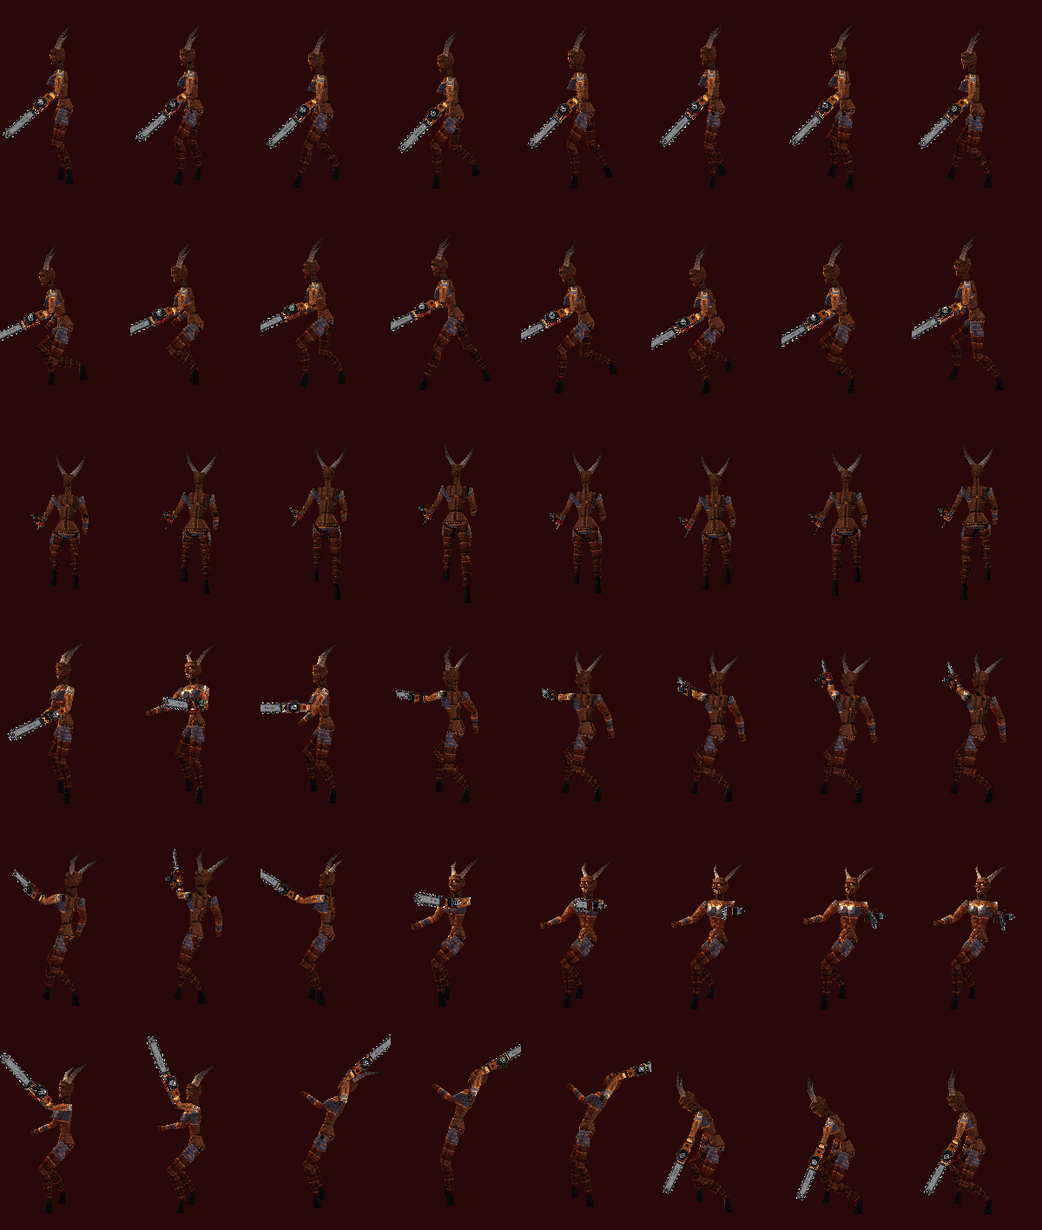
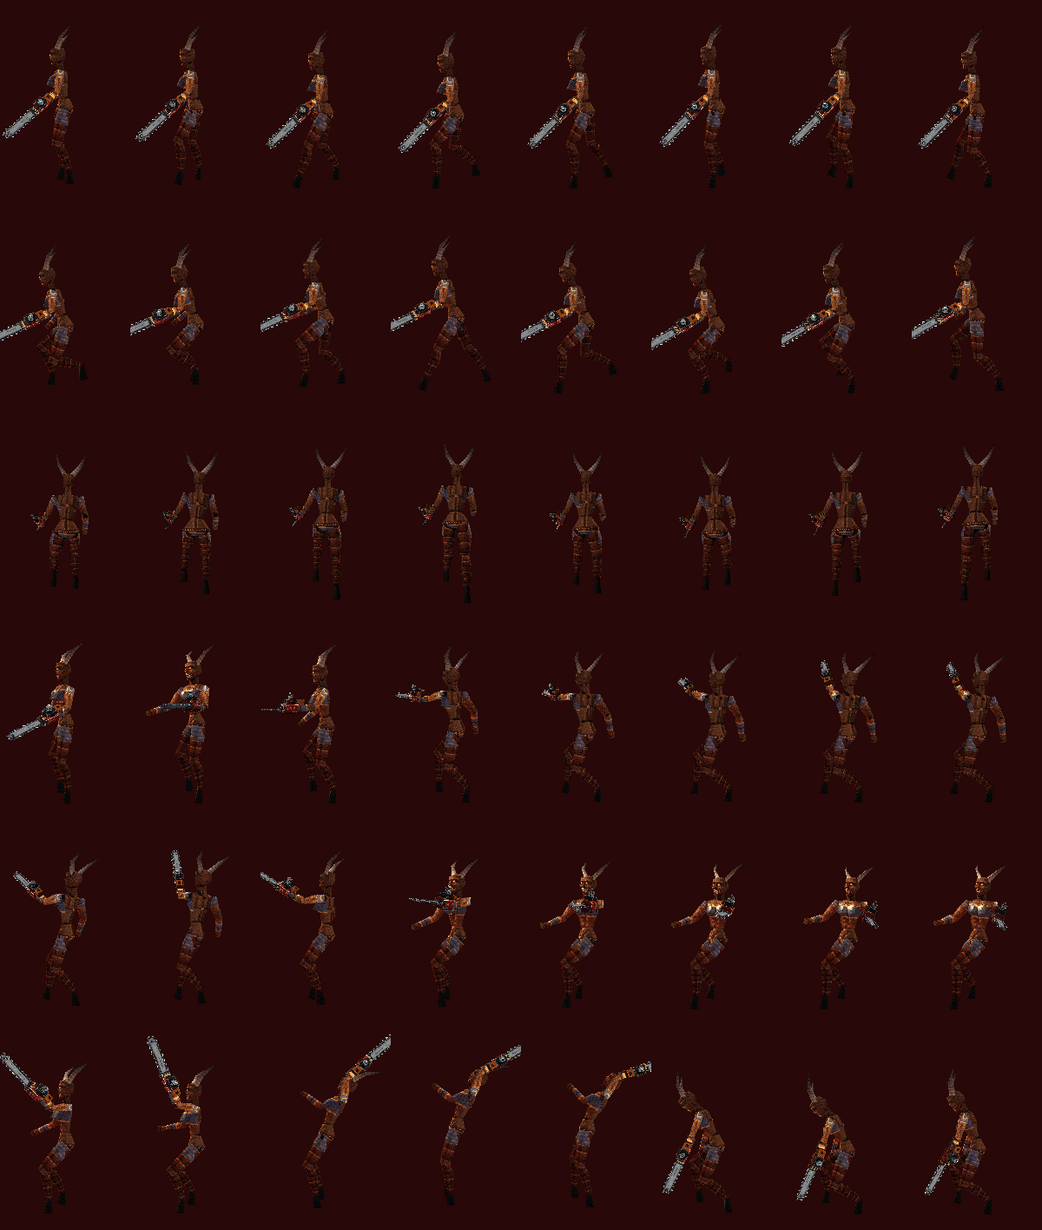
Chainsaw blade turns edge-first into every swing (forearm roll)
- new FK channel RFR: the right forearm rolls about its own axis (before the elbow bend), turning
  the fist and the strapped-on saw
- combo clips carry roll keys solved by platform/headless/rolltest.c so the bar's plane follows
  each swing path: edge leads ~0.84-0.97 of the motion (slash and backhand flat, slam edge-down)

Claude-Session: https://claude.ai/code/session_012tW2o1Tr2YJ8pCwfx14vK1

diff --git a/game/fkclips.c b/game/fkclips.c
@@ -3,92 +3,92 @@
 #include "fkclips.h"
 
 static const FKKey k_walk[] = {
-    { 0, { 0, -3, -5, 0, -6, 5, 4, 2, 0, 76, -8, 18, 72, 18, 36, 25, 3, -10, 4, -7, 14, 6, 4 } },
-    { 4, { 0, -3, -4, 2, -7, 4, 3, 0, 0, 76, -5, 19, 72, 19, 38, 23, 9, -3, 4, -11, 24, 13, 4 } },
-    { 8, { 0, -3, -2, 5, -8, 2, 2, 0, 0, 76, -2, 20, 73, 20, 40, 21, 15, -1, 4, -10, 38, 20, 4 } },
-    { 12, { 0, -3, -1, 4, -7, 1, 2, 1, 0, 76, 0, 20, 72, 20, 39, 18, 11, -2, 4, -5, 52, 11, 4 } },
-    { 16, { 0, -3, 0, 3, -6, 0, 3, 2, 0, 76, 3, 21, 72, 21, 38, 13, 8, -3, 4, 3, 45, 2, 4 } },
-    { 20, { 0, -3, 1, 2, -5, -1, 4, 3, 0, 76, 5, 22, 72, 20, 36, 8, 6, -4, 4, 14, 38, -2, 4 } },
-    { 24, { 0, -3, 2, 1, -6, -2, 4, 2, 0, 76, 6, 22, 71, 20, 35, 3, 5, -1, 4, 21, 19, -6, 4 } },
-    { 28, { 0, -3, 4, 0, -6, -4, 4, 1, 0, 76, 8, 23, 72, 19, 36, -2, 4, 3, 4, 24, 8, -8, 4 } },
-    { 32, { 0, -3, 5, -2, -7, -5, 5, 0, 0, 76, 10, 24, 72, 18, 38, -7, 14, 6, 4, 25, 3, -10, 4 } },
-    { 36, { 0, -3, 4, -4, -8, -4, 6, -1, 0, 76, 8, 23, 72, 17, 39, -11, 24, 13, 4, 23, 9, -3, 4 } },
-    { 40, { 0, -3, 2, -5, -8, -2, 6, 0, 0, 76, 6, 22, 73, 16, 40, -10, 38, 20, 4, 21, 15, -1, 4 } },
-    { 44, { 0, -3, 1, -4, -7, -1, 6, 1, 0, 76, 5, 22, 72, 16, 39, -5, 52, 11, 4, 18, 11, -2, 4 } },
-    { 48, { 0, -3, 0, -3, -6, 0, 5, 2, 0, 76, 3, 21, 72, 15, 38, 3, 45, 2, 4, 13, 8, -3, 4 } },
-    { 52, { 0, -3, -1, -2, -5, 1, 4, 3, 0, 76, 0, 20, 72, 16, 36, 14, 38, -2, 4, 8, 6, -4, 4 } },
-    { 56, { 0, -3, -2, -1, -5, 2, 4, 3, 0, 76, -2, 20, 71, 16, 35, 21, 19, -6, 4, 3, 5, -1, 4 } },
-    { 60, { 0, -3, -4, 0, -6, 4, 4, 2, 0, 76, -5, 19, 72, 17, 36, 24, 8, -8, 4, -2, 4, 3, 4 } },
-    { 64, { 0, -3, -5, 0, -6, 5, 4, 2, 0, 76, -8, 18, 72, 18, 36, 25, 3, -10, 4, -7, 14, 6, 4 } },
+    { 0, { 0, -3, -5, 0, -6, 5, 4, 2, 0, 76, -8, 18, 72, 18, 36, 25, 3, -10, 4, -7, 14, 6, 4, 0 } },
+    { 4, { 0, -3, -4, 2, -7, 4, 3, 0, 0, 76, -5, 19, 72, 19, 38, 23, 9, -3, 4, -11, 24, 13, 4, 0 } },
+    { 8, { 0, -3, -2, 5, -8, 2, 2, 0, 0, 76, -2, 20, 73, 20, 40, 21, 15, -1, 4, -10, 38, 20, 4, 0 } },
+    { 12, { 0, -3, -1, 4, -7, 1, 2, 1, 0, 76, 0, 20, 72, 20, 39, 18, 11, -2, 4, -5, 52, 11, 4, 0 } },
+    { 16, { 0, -3, 0, 3, -6, 0, 3, 2, 0, 76, 3, 21, 72, 21, 38, 13, 8, -3, 4, 3, 45, 2, 4, 0 } },
+    { 20, { 0, -3, 1, 2, -5, -1, 4, 3, 0, 76, 5, 22, 72, 20, 36, 8, 6, -4, 4, 14, 38, -2, 4, 0 } },
+    { 24, { 0, -3, 2, 1, -6, -2, 4, 2, 0, 76, 6, 22, 71, 20, 35, 3, 5, -1, 4, 21, 19, -6, 4, 0 } },
+    { 28, { 0, -3, 4, 0, -6, -4, 4, 1, 0, 76, 8, 23, 72, 19, 36, -2, 4, 3, 4, 24, 8, -8, 4, 0 } },
+    { 32, { 0, -3, 5, -2, -7, -5, 5, 0, 0, 76, 10, 24, 72, 18, 38, -7, 14, 6, 4, 25, 3, -10, 4, 0 } },
+    { 36, { 0, -3, 4, -4, -8, -4, 6, -1, 0, 76, 8, 23, 72, 17, 39, -11, 24, 13, 4, 23, 9, -3, 4, 0 } },
+    { 40, { 0, -3, 2, -5, -8, -2, 6, 0, 0, 76, 6, 22, 73, 16, 40, -10, 38, 20, 4, 21, 15, -1, 4, 0 } },
+    { 44, { 0, -3, 1, -4, -7, -1, 6, 1, 0, 76, 5, 22, 72, 16, 39, -5, 52, 11, 4, 18, 11, -2, 4, 0 } },
+    { 48, { 0, -3, 0, -3, -6, 0, 5, 2, 0, 76, 3, 21, 72, 15, 38, 3, 45, 2, 4, 13, 8, -3, 4, 0 } },
+    { 52, { 0, -3, -1, -2, -5, 1, 4, 3, 0, 76, 0, 20, 72, 16, 36, 14, 38, -2, 4, 8, 6, -4, 4, 0 } },
+    { 56, { 0, -3, -2, -1, -5, 2, 4, 3, 0, 76, -2, 20, 71, 16, 35, 21, 19, -6, 4, 3, 5, -1, 4, 0 } },
+    { 60, { 0, -3, -4, 0, -6, 4, 4, 2, 0, 76, -5, 19, 72, 17, 36, 24, 8, -8, 4, -2, 4, 3, 4, 0 } },
+    { 64, { 0, -3, -5, 0, -6, 5, 4, 2, 0, 76, -8, 18, 72, 18, 36, 25, 3, -10, 4, -7, 14, 6, 4, 0 } },
 };
 const FKClip clip_walk = { "walk", k_walk, 17, 64, 1, { 0, 32 }, { 40, 8 } };
 
 static const FKKey k_run[] = {
-    { 0, { 30, -9, -7, 0, -10, 7, 4, 10, 0, 74, -14, 66, 66, 30, 52, 30, 20, 0, 3, 5, 82, 26, 3 } },
-    { 4, { 41, -9, -5, 3, -13, 5, 2, 7, 0, 74, -10, 68, 68, 31, 56, 22, 31, -2, 3, 20, 102, 18, 3 } },
-    { 8, { 40, -9, -4, 6, -13, 4, 1, 7, 0, 74, -5, 70, 68, 32, 57, 15, 33, -4, 3, 34, 108, 10, 3 } },
-    { 12, { 26, -9, -2, 5, -12, 2, 2, 8, 0, 74, 0, 71, 67, 33, 55, 5, 27, 2, 3, 48, 100, 5, 3 } },
-    { 16, { 8, -9, 0, 4, -10, 0, 2, 10, 0, 74, 4, 73, 66, 34, 53, -5, 24, 7, 3, 50, 84, 1, 3 } },
-    { 20, { -18, -9, 2, 2, -9, -2, 3, 11, 0, 74, 8, 75, 65, 33, 51, -15, 22, 19, 3, 52, 62, -4, 3 } },
-    { 24, { -33, -9, 4, 1, -10, -4, 4, 10, 0, 74, 13, 76, 65, 32, 51, -17, 34, 28, 3, 45, 42, -3, 3 } },
-    { 28, { -40, -9, 5, -1, -11, -5, 5, 9, 0, 74, 18, 78, 66, 31, 53, -10, 60, 30, 3, 38, 26, -1, 3 } },
-    { 32, { 30, -9, 7, -2, -12, -7, 6, 8, 0, 74, 22, 80, 67, 30, 55, 5, 82, 26, 3, 30, 20, 0, 3 } },
-    { 36, { 41, -9, 5, -4, -13, -5, 6, 7, 0, 74, 18, 78, 68, 29, 57, 20, 102, 18, 3, 22, 31, -2, 3 } },
-    { 40, { 40, -9, 4, -6, -13, -4, 7, 7, 0, 74, 13, 76, 68, 28, 57, 34, 108, 10, 3, 15, 33, -4, 3 } },
-    { 44, { 26, -9, 2, -5, -12, -2, 6, 8, 0, 74, 8, 75, 67, 27, 55, 48, 100, 5, 3, 5, 27, 2, 3 } },
-    { 48, { 8, -9, 0, -4, -10, 0, 6, 10, 0, 74, 4, 73, 66, 26, 53, 50, 84, 1, 3, -5, 24, 7, 3 } },
-    { 52, { -18, -9, -2, -2, -9, 2, 5, 11, 0, 74, 0, 71, 65, 27, 51, 52, 62, -4, 3, -15, 22, 19, 3 } },
-    { 56, { -33, -9, -4, -1, -9, 4, 4, 11, 0, 74, -5, 70, 64, 28, 50, 45, 42, -3, 3, -17, 34, 28, 3 } },
-    { 60, { -40, -9, -5, 0, -10, 5, 4, 10, 0, 74, -10, 68, 65, 29, 51, 38, 26, -1, 3, -10, 60, 30, 3 } },
-    { 64, { 30, -9, -7, 0, -10, 7, 4, 10, 0, 74, -14, 66, 66, 30, 52, 30, 20, 0, 3, 5, 82, 26, 3 } },
+    { 0, { 30, -9, -7, 0, -10, 7, 4, 10, 0, 74, -14, 66, 66, 30, 52, 30, 20, 0, 3, 5, 82, 26, 3, 0 } },
+    { 4, { 41, -9, -5, 3, -13, 5, 2, 7, 0, 74, -10, 68, 68, 31, 56, 22, 31, -2, 3, 20, 102, 18, 3, 0 } },
+    { 8, { 40, -9, -4, 6, -13, 4, 1, 7, 0, 74, -5, 70, 68, 32, 57, 15, 33, -4, 3, 34, 108, 10, 3, 0 } },
+    { 12, { 26, -9, -2, 5, -12, 2, 2, 8, 0, 74, 0, 71, 67, 33, 55, 5, 27, 2, 3, 48, 100, 5, 3, 0 } },
+    { 16, { 8, -9, 0, 4, -10, 0, 2, 10, 0, 74, 4, 73, 66, 34, 53, -5, 24, 7, 3, 50, 84, 1, 3, 0 } },
+    { 20, { -18, -9, 2, 2, -9, -2, 3, 11, 0, 74, 8, 75, 65, 33, 51, -15, 22, 19, 3, 52, 62, -4, 3, 0 } },
+    { 24, { -33, -9, 4, 1, -10, -4, 4, 10, 0, 74, 13, 76, 65, 32, 51, -17, 34, 28, 3, 45, 42, -3, 3, 0 } },
+    { 28, { -40, -9, 5, -1, -11, -5, 5, 9, 0, 74, 18, 78, 66, 31, 53, -10, 60, 30, 3, 38, 26, -1, 3, 0 } },
+    { 32, { 30, -9, 7, -2, -12, -7, 6, 8, 0, 74, 22, 80, 67, 30, 55, 5, 82, 26, 3, 30, 20, 0, 3, 0 } },
+    { 36, { 41, -9, 5, -4, -13, -5, 6, 7, 0, 74, 18, 78, 68, 29, 57, 20, 102, 18, 3, 22, 31, -2, 3, 0 } },
+    { 40, { 40, -9, 4, -6, -13, -4, 7, 7, 0, 74, 13, 76, 68, 28, 57, 34, 108, 10, 3, 15, 33, -4, 3, 0 } },
+    { 44, { 26, -9, 2, -5, -12, -2, 6, 8, 0, 74, 8, 75, 67, 27, 55, 48, 100, 5, 3, 5, 27, 2, 3, 0 } },
+    { 48, { 8, -9, 0, -4, -10, 0, 6, 10, 0, 74, 4, 73, 66, 26, 53, 50, 84, 1, 3, -5, 24, 7, 3, 0 } },
+    { 52, { -18, -9, -2, -2, -9, 2, 5, 11, 0, 74, 0, 71, 65, 27, 51, 52, 62, -4, 3, -15, 22, 19, 3, 0 } },
+    { 56, { -33, -9, -4, -1, -9, 4, 4, 11, 0, 74, -5, 70, 64, 28, 50, 45, 42, -3, 3, -17, 34, 28, 3, 0 } },
+    { 60, { -40, -9, -5, 0, -10, 5, 4, 10, 0, 74, -10, 68, 65, 29, 51, 38, 26, -1, 3, -10, 60, 30, 3, 0 } },
+    { 64, { 30, -9, -7, 0, -10, 7, 4, 10, 0, 74, -14, 66, 66, 30, 52, 30, 20, 0, 3, 5, 82, 26, 3, 0 } },
 };
 const FKClip clip_run = { "run", k_run, 17, 64, 1, { 0, 32 }, { 22, 54 } };
 
 static const FKKey k_idle[] = {
-    { 0, { 0, 0, 0, -3, -4, 0, 5, -3, 0, 72, 4, 22, 78, 8, 14, 6, 14, 0, 8, 2, 4, 0, 4 } },
-    { 48, { 0, 0, 0, -4, -1, 0, 6, 0, -6, 70, 8, 26, 77, 9, 16, 6, 16, 0, 8, 2, 5, 0, 4 } },
-    { 96, { 0, 0, 0, -3, -4, 0, 5, -3, 0, 72, 4, 22, 78, 8, 14, 6, 14, 0, 8, 2, 4, 0, 4 } },
+    { 0, { 0, 0, 0, -3, -4, 0, 5, -3, 0, 72, 4, 22, 78, 8, 14, 6, 14, 0, 8, 2, 4, 0, 4, 0 } },
+    { 48, { 0, 0, 0, -4, -1, 0, 6, 0, -6, 70, 8, 26, 77, 9, 16, 6, 16, 0, 8, 2, 5, 0, 4, 0 } },
+    { 96, { 0, 0, 0, -3, -4, 0, 5, -3, 0, 72, 4, 22, 78, 8, 14, 6, 14, 0, 8, 2, 4, 0, 4, 0 } },
 };
 const FKClip clip_idle = { "idle", k_idle, 3, 96, 1, { 0, 0 }, { 0, 0 } };
 
 static const FKKey k_air[] = {
-    { 0, { 0, -6, 0, 0, -10, 0, 0, 10, 0, 62, 24, 60, 66, 16, 44, 58, 96, 20, 5, -14, 50, 30, 5 } },
-    { 16, { 0, -4, 0, 0, -6, 0, 0, 6, 0, 56, 18, 52, 62, 20, 44, 50, 80, 14, 5, 10, 60, 20, 5 } },
-    { 32, { 0, 2, 0, 0, -2, 0, 0, -6, 0, 50, 16, 34, 58, 24, 40, 30, 34, -4, 10, 14, 24, -4, 10 } },
+    { 0, { 0, -6, 0, 0, -10, 0, 0, 10, 0, 62, 24, 60, 66, 16, 44, 58, 96, 20, 5, -14, 50, 30, 5, 0 } },
+    { 16, { 0, -4, 0, 0, -6, 0, 0, 6, 0, 56, 18, 52, 62, 20, 44, 50, 80, 14, 5, 10, 60, 20, 5, 0 } },
+    { 32, { 0, 2, 0, 0, -2, 0, 0, -6, 0, 50, 16, 34, 58, 24, 40, 30, 34, -4, 10, 14, 24, -4, 10, 0 } },
 };
 const FKClip clip_air = { "air", k_air, 3, 32, 0, { 0, 0 }, { 0, 0 } };
 
 static const FKKey k_land[] = {
-    { 0, { 0, -14, 0, 0, -18, 0, 5, 18, 0, 56, 24, 46, 62, 32, 44, 56, 96, -14, 10, 50, 92, -14, 10 } },
-    { 1, { 0, -14, 0, 0, -18, 0, 5, 18, 0, 56, 24, 46, 62, 32, 44, 56, 96, -14, 10, 50, 92, -14, 10 } },
+    { 0, { 0, -14, 0, 0, -18, 0, 5, 18, 0, 56, 24, 46, 62, 32, 44, 56, 96, -14, 10, 50, 92, -14, 10, 0 } },
+    { 1, { 0, -14, 0, 0, -18, 0, 5, 18, 0, 56, 24, 46, 62, 32, 44, 56, 96, -14, 10, 50, 92, -14, 10, 0 } },
 };
 const FKClip clip_land = { "land", k_land, 2, 1, 0, { 0, 0 }, { 0, 0 } };
 
 static const FKKey k_atk1[] = {
-    { 0, { 0, 0, 0, 0, 0, 0, 0, 0, 0, 74, 4, 16, 72, 18, 36, 3, 6, 0, 5, 3, 6, 0, 5 } },
-    { 4, { 0, 0, -22, 4, -2, -34, 0, 0, 10, 60, 30, 40, 80, 25, 70, 3, 6, 0, 5, 3, 6, 0, 5 } },
-    { 9, { 0, 0, 28, -5, -14, 36, 0, 0, -10, 70, -20, 30, 88, 95, 8, 3, 6, 0, 5, 3, 6, 0, 5 } },
-    { 14, { 0, 0, 30, -5, -12, 42, 0, 0, -12, 70, -24, 30, 92, 110, 15, 3, 6, 0, 5, 3, 6, 0, 5 } },
-    { 26, { 0, 0, 8, 0, -8, 20, 0, 0, 0, 70, 0, 24, 80, 60, 30, 3, 6, 0, 5, 3, 6, 0, 5 } },
+    { 0, { 0, 0, 0, 0, 0, 0, 0, 0, 0, 74, 4, 16, 72, 18, 36, 3, 6, 0, 5, 3, 6, 0, 5, 0 } },
+    { 4, { 0, 0, -22, 4, -2, -34, 0, 0, 10, 60, 30, 40, 80, 25, 70, 3, 6, 0, 5, 3, 6, 0, 5, -100 } },
+    { 9, { 0, 0, 28, -5, -14, 36, 0, 0, -10, 70, -20, 30, 88, 95, 8, 3, 6, 0, 5, 3, 6, 0, 5, -58 } },
+    { 14, { 0, 0, 30, -5, -12, 42, 0, 0, -12, 70, -24, 30, 92, 110, 15, 3, 6, 0, 5, 3, 6, 0, 5, -56 } },
+    { 26, { 0, 0, 8, 0, -8, 20, 0, 0, 0, 70, 0, 24, 80, 60, 30, 3, 6, 0, 5, 3, 6, 0, 5, -56 } },
 };
 const FKClip clip_atk1 = { "atk1", k_atk1, 5, 26, 0, { 0, 0 }, { 0, 0 } };
 
 static const FKKey k_atk2[] = {
-    { 0, { 0, 0, 8, 0, -8, 20, 0, 0, 0, 70, 4, 24, 80, 60, 30, 3, 6, 0, 5, 3, 6, 0, 5 } },
-    { 4, { 0, 0, 24, -4, -6, 42, 0, 0, -10, 64, -10, 34, 92, 84, 55, 3, 6, 0, 5, 3, 6, 0, 5 } },
-    { 9, { 0, 0, -28, 5, -14, -38, 0, 0, 12, 62, 30, 40, 82, 86, 5, 3, 6, 0, 5, 3, 6, 0, 5 } },
-    { 14, { 0, 0, -30, 5, -12, -46, 0, 0, 14, 62, 34, 40, 72, 70, 10, 3, 6, 0, 5, 3, 6, 0, 5 } },
-    { 26, { 0, 0, -8, 0, -8, -20, 0, 0, 0, 70, 10, 24, 70, 60, 30, 3, 6, 0, 5, 3, 6, 0, 5 } },
+    { 0, { 0, 0, 8, 0, -8, 20, 0, 0, 0, 70, 4, 24, 80, 60, 30, 3, 6, 0, 5, 3, 6, 0, 5, -34 } },
+    { 4, { 0, 0, 24, -4, -6, 42, 0, 0, -10, 64, -10, 34, 92, 84, 55, 3, 6, 0, 5, 3, 6, 0, 5, -64 } },
+    { 9, { 0, 0, -28, 5, -14, -38, 0, 0, 12, 62, 30, 40, 82, 86, 5, 3, 6, 0, 5, 3, 6, 0, 5, -78 } },
+    { 14, { 0, 0, -30, 5, -12, -46, 0, 0, 14, 62, 34, 40, 72, 70, 10, 3, 6, 0, 5, 3, 6, 0, 5, -60 } },
+    { 26, { 0, 0, -8, 0, -8, -20, 0, 0, 0, 70, 10, 24, 70, 60, 30, 3, 6, 0, 5, 3, 6, 0, 5, -76 } },
 };
 const FKClip clip_atk2 = { "atk2", k_atk2, 5, 26, 0, { 0, 0 }, { 0, 0 } };
 
 static const FKKey k_atk3[] = {
-    { 0, { 0, 0, -8, 0, -8, -20, 0, 0, 0, 70, 4, 24, 70, 60, 30, 3, 6, 0, 5, 3, 6, 0, 5 } },
-    { 5, { 0, -8, 0, 0, -12, -14, 0, 6, 0, 60, 30, 50, 80, 110, 50, 3, 6, 0, 5, 3, 6, 0, 5 } },
-    { 9, { 0, 6, 0, 0, 12, -10, 0, 10, 0, 50, 50, 50, 90, 175, 40, 3, 6, 0, 5, 3, 6, 0, 5 } },
-    { 12, { 0, 5, 0, 0, 14, -8, 0, 12, 0, 46, 46, 54, 90, 185, 36, 3, 6, 0, 5, 3, 6, 0, 5 } },
-    { 15, { 0, -16, 0, 0, -30, 0, 0, -20, 0, 80, 20, 30, 90, 55, 0, 3, 6, 0, 5, 3, 6, 0, 5 } },
-    { 24, { 0, -15, 0, 0, -28, 0, 0, -18, 0, 80, 18, 30, 90, 50, 0, 3, 6, 0, 5, 3, 6, 0, 5 } },
-    { 40, { 0, 0, 0, 0, -6, 0, 0, -2, 0, 74, 4, 16, 72, 18, 36, 3, 6, 0, 5, 3, 6, 0, 5 } },
+    { 0, { 0, 0, -8, 0, -8, -20, 0, 0, 0, 70, 4, 24, 70, 60, 30, 3, 6, 0, 5, 3, 6, 0, 5, -36 } },
+    { 5, { 0, -8, 0, 0, -12, -14, 0, 6, 0, 60, 30, 50, 80, 110, 50, 3, 6, 0, 5, 3, 6, 0, 5, -6 } },
+    { 9, { 0, 6, 0, 0, 12, -10, 0, 10, 0, 50, 50, 50, 90, 175, 40, 3, 6, 0, 5, 3, 6, 0, 5, 10 } },
+    { 12, { 0, 5, 0, 0, 14, -8, 0, 12, 0, 46, 46, 54, 90, 185, 36, 3, 6, 0, 5, 3, 6, 0, 5, 0 } },
+    { 15, { 0, -16, 0, 0, -30, 0, 0, -20, 0, 80, 20, 30, 90, 55, 0, 3, 6, 0, 5, 3, 6, 0, 5, 0 } },
+    { 24, { 0, -15, 0, 0, -28, 0, 0, -18, 0, 80, 18, 30, 90, 50, 0, 3, 6, 0, 5, 3, 6, 0, 5, 56 } },
+    { 40, { 0, 0, 0, 0, -6, 0, 0, -2, 0, 74, 4, 16, 72, 18, 36, 3, 6, 0, 5, 3, 6, 0, 5, 0 } },
 };
 const FKClip clip_atk3 = { "atk3", k_atk3, 7, 40, 0, { 0, 0 }, { 0, 0 } };

diff --git a/platform/headless/rolltest.c b/platform/headless/rolltest.c
@@ -1,0 +1,129 @@
+/* Finds, for every keyframe of the chainsaw combo clips, the right-forearm roll that turns the
+   blade so its cutting edge (the bar's +/-sd axis) points along the way the blade is moving.
+   Prints the values for tools/make_fkclips.py. */
+#include <stdio.h>
+#include <math.h>
+#include <stdlib.h>
+#include <string.h>
+#include "gte.h"
+#include "model.h"
+#include "fk.h"
+#include "fkclips.h"
+#include "demon_mesh.h"
+
+static Model m;
+
+/* blade tip + edge direction (world) for clip c at time t (frames) with roll r (degrees) */
+static void blade(const FKClip *c, double t, int r, double tip[3], double edge[3])
+{
+    FKPose p; MATRIX pose[DEMON_NBONES], world[DEMON_NBONES], root; VECTOR off, o;
+    SVECTOR s;
+    fk_sample(c, (s32)(t * 256), &p);
+    p.v[FK_RFR] = (s16)r;
+    fk_bones(&m, &p, pose, &off);
+    mat_identity(&root);
+    model_skeleton(&m, &root, pose, world);
+    s.vx = (s16)(DEMON_MOUNT_X + DEMON_MOUNT_DX * 450 / 4096); s.vy = (s16)(DEMON_MOUNT_Y + DEMON_MOUNT_DY * 450 / 4096);
+    s.vz = (s16)(DEMON_MOUNT_Z + DEMON_MOUNT_DZ * 450 / 4096);
+    mat_apply(&world[DEMON_MOUNT_BONE], &s, &o);
+    tip[0] = o.vx; tip[1] = o.vy; tip[2] = o.vz;
+    /* edge normal: the saw's sd axis = cross(Y, D) in model space (Y up) -> engine y down: (Dz, 0, -Dx)?? */
+    {
+        const MATRIX *W = &world[DEMON_MOUNT_BONE];
+        double sx = 141.0 / 4096 * 0 + 0.0344, sz = 0.9997;    /* S ~ +Z (her front) in the T-pose */
+        int i;
+        for (i = 0; i < 3; i++) edge[i] = (W->m[i][0] * sx + W->m[i][2] * sz) / 4096.0;
+    }
+}
+
+int main(void)
+{
+    static const FKClip *const C[3] = { &clip_atk1, &clip_atk2, &clip_atk3 };
+    int ci, k;
+    m.verts = (const DVERT *)demon_verts; m.nverts = DEMON_NVERTS;
+    m.prims = (const DPRIM *)demon_prims; m.nprims = DEMON_NPRIMS;
+    m.bones = (const DBONE *)demon_bones; m.nbones = DEMON_NBONES;
+    fk_init(&m);
+    int prev = 0;                    /* chained across the combo so the wrist never spins round */
+    for (ci = 0; ci < 3; ci++) {
+        const FKClip *c = C[ci];
+        printf("atk%d:", ci + 1);
+        for (k = 0; k < c->nkeys; k++) {
+            double t = c->keys[k].frame, a[3], b[3], e[3], v[3], vl, best = -1;
+            int r, br = prev;
+            double t1 = t + 3 > c->length ? c->length : t + 3, t0 = t1 - 3;
+            blade(c, t0, prev, a, e);
+            blade(c, t1, prev, b, e);
+            v[0] = b[0] - a[0]; v[1] = b[1] - a[1]; v[2] = b[2] - a[2];
+            vl = sqrt(v[0] * v[0] + v[1] * v[1] + v[2] * v[2]);
+            if (vl > 25) {
+                for (r = prev - 180; r <= prev + 180; r += 2) {
+                    double sc;
+                    blade(c, t, r, a, e);
+                    sc = fabs(e[0] * v[0] + e[1] * v[1] + e[2] * v[2]) / vl - fabs((double)(r - prev)) / 3000.0;  /* prefer small turns */
+                    if (sc > best) { best = sc; br = r; }
+                }
+                /* r and r+180 give the same blade plane: take the one nearest the last key that a
+                   wrist can reach (+-120) */
+                while (br > 120) br -= 180;
+                while (br < -120) br += 180;
+                if (br + 180 <= 120 && abs(br + 180 - prev) < abs(br - prev)) br += 180;
+                if (br - 180 >= -120 && abs(br - 180 - prev) < abs(br - prev)) br -= 180;
+            }
+            printf(" (%d, %d, %.2f)", c->keys[k].frame, br, best);
+            prev = br;
+        }
+        printf("\n");
+    }
+    /* refine: coordinate descent on every key's roll, maximising the speed-weighted edge lead over
+       the whole clip (the first key of the combo and the last of the slam stay 0: the walking hold) */
+    for (ci = 0; ci < 3; ci++) {
+        static FKKey keys[16];
+        FKClip c = *C[ci];
+        int it, kk;
+        memcpy(keys, c.keys, sizeof(FKKey) * c.nkeys);
+        c.keys = keys;
+        for (it = 0; it < 6; it++)
+            for (kk = 0; kk < c.nkeys; kk++) {
+                int d, best_v = keys[kk].v[FK_RFR];
+                double best = -1;
+                if ((ci == 0 && kk == 0) || (ci == 2 && kk == c.nkeys - 1)) continue;
+                for (d = -40; d <= 40; d += 4) {
+                    int f, v0 = keys[kk].v[FK_RFR];
+                    double sum = 0, wsum = 0;
+                    keys[kk].v[FK_RFR] = (s16)(best_v + d);
+                    if (keys[kk].v[FK_RFR] > 125 || keys[kk].v[FK_RFR] < -125) { keys[kk].v[FK_RFR] = (s16)v0; continue; }
+                    for (f = 0; f + 1 <= c.length; f++) {
+                        double a[3], b[3], e[3], v[3], vl; FKPose p;
+                        fk_sample(&c, (s32)f << 8, &p);
+                        blade(&c, f, p.v[FK_RFR], a, e); blade(&c, f + 1, p.v[FK_RFR], b, e);
+                        v[0] = b[0] - a[0]; v[1] = b[1] - a[1]; v[2] = b[2] - a[2];
+                        vl = sqrt(v[0] * v[0] + v[1] * v[1] + v[2] * v[2]);
+                        blade(&c, f + 0.5, p.v[FK_RFR], a, e);
+                        if (vl > 1) { sum += fabs(e[0] * v[0] + e[1] * v[1] + e[2] * v[2]); wsum += vl; }
+                    }
+                    if (sum / wsum > best) { best = sum / wsum; best_v = keys[kk].v[FK_RFR]; }
+                    keys[kk].v[FK_RFR] = (s16)v0;
+                }
+                keys[kk].v[FK_RFR] = (s16)best_v;
+            }
+        printf("atk%d refined:", ci + 1);
+        for (kk = 0; kk < c.nkeys; kk++) printf(" %d", keys[kk].v[FK_RFR]);
+        {   /* report */
+            int f; double sum = 0, wsum = 0, worst = 1;
+            for (f = 0; f + 1 <= c.length; f++) {
+                double a[3], b[3], e[3], v[3], vl, sc; FKPose p;
+                fk_sample(&c, (s32)f << 8, &p);
+                blade(&c, f, p.v[FK_RFR], a, e); blade(&c, f + 1, p.v[FK_RFR], b, e);
+                v[0] = b[0] - a[0]; v[1] = b[1] - a[1]; v[2] = b[2] - a[2];
+                vl = sqrt(v[0] * v[0] + v[1] * v[1] + v[2] * v[2]);
+                blade(&c, f + 0.5, p.v[FK_RFR], a, e);
+                sc = fabs(e[0] * v[0] + e[1] * v[1] + e[2] * v[2]) / (vl + 1e-9);
+                if (vl > 1) { sum += sc * vl; wsum += vl; }
+                if (vl > 60 && sc < worst) worst = sc;
+            }
+            printf("   (speed-weighted edge lead %.2f, worst fast frame %.2f)\n", sum / wsum, worst);
+        }
+    }
+    return 0;
+}

diff --git a/tools/make_fkclips.py b/tools/make_fkclips.py
@@ -6,7 +6,7 @@ import os
 
 CH = ["PY","PRX","PRY","PRZ","TRX","TRY","TRZ","HRX","HRY",
       "LSD","LSS","LEL","RSD","RSS","REL",
-      "LHP","LKN","LAN","LAB","RHP","RKN","RAN","RAB"]
+      "LHP","LKN","LAN","LAB","RHP","RKN","RAN","RAB","RFR"]
 
 def interp(curve, f, length):
     """curve: list of (frame, value) covering 0..length, looping"""
@@ -41,7 +41,7 @@ def oneshot(name, keys):
 
 STAND = dict(PY=0, PRX=0, PRY=0, PRZ=0, TRX=0, TRY=0, TRZ=0, HRX=0, HRY=0,
              LSD=74, LSS=4, LEL=16, RSD=74, RSS=4, REL=16,
-             LHP=3, LKN=6, LAN=0, LAB=5, RHP=3, RKN=6, RAN=0, RAB=5)
+             LHP=3, LKN=6, LAN=0, LAB=5, RHP=3, RKN=6, RAN=0, RAB=5, RFR=0)
 def pose(**kw):
     v = dict(STAND); v.update(kw); return v
 
@@ -116,32 +116,34 @@ land = oneshot("land", [
 
 # --- chainsaw combo (upper body; her legs brace in a lunge stance and slide, see player.c)
 # 1: horizontal slash right to left   2: backhand left to right   3: overhead slam
+# RFR rolls the forearm so the chain edge, not the flat of the bar, leads each cut
+# (values solved by platform/headless/rolltest.c from the swing paths)
 HOLD = dict(RSD=72, RSS=18, REL=36)
 def atk(name, keys):
     return oneshot(name, [(f, pose(**{**HOLD, **k})) for f, k in keys])
 
 atk1 = atk("atk1", [
-    (0,  dict()),
-    (4,  dict(TRY=-34, PRY=-22, PRZ=4, TRX=-2, HRY=10, RSD=80, RSS=25, REL=70, LSD=60, LSS=30, LEL=40)),
-    (9,  dict(TRY=36, PRY=28, PRZ=-5, TRX=-14, HRY=-10, RSD=88, RSS=95, REL=8, LSD=70, LSS=-20, LEL=30)),
-    (14, dict(TRY=42, PRY=30, PRZ=-5, TRX=-12, HRY=-12, RSD=92, RSS=110, REL=15, LSD=70, LSS=-24, LEL=30)),
-    (26, dict(TRY=20, PRY=8, TRX=-8, RSD=80, RSS=60, REL=30, LSD=70, LSS=0, LEL=24)),
+    (0,  dict(RFR=0)),
+    (4,  dict(TRY=-34, PRY=-22, PRZ=4, TRX=-2, HRY=10, RSD=80, RSS=25, REL=70, LSD=60, LSS=30, LEL=40, RFR=-100)),
+    (9,  dict(TRY=36, PRY=28, PRZ=-5, TRX=-14, HRY=-10, RSD=88, RSS=95, REL=8, LSD=70, LSS=-20, LEL=30, RFR=-58)),
+    (14, dict(TRY=42, PRY=30, PRZ=-5, TRX=-12, HRY=-12, RSD=92, RSS=110, REL=15, LSD=70, LSS=-24, LEL=30, RFR=-56)),
+    (26, dict(TRY=20, PRY=8, TRX=-8, RSD=80, RSS=60, REL=30, LSD=70, LSS=0, LEL=24, RFR=-56)),
 ])
 atk2 = atk("atk2", [
-    (0,  dict(TRY=20, PRY=8, TRX=-8, RSD=80, RSS=60, REL=30, LSD=70, LEL=24)),
-    (4,  dict(TRY=42, PRY=24, PRZ=-4, TRX=-6, HRY=-10, RSD=92, RSS=84, REL=55, LSD=64, LSS=-10, LEL=34)),
-    (9,  dict(TRY=-38, PRY=-28, PRZ=5, TRX=-14, HRY=12, RSD=82, RSS=86, REL=5, LSD=62, LSS=30, LEL=40)),
-    (14, dict(TRY=-46, PRY=-30, PRZ=5, TRX=-12, HRY=14, RSD=72, RSS=70, REL=10, LSD=62, LSS=34, LEL=40)),
-    (26, dict(TRY=-20, PRY=-8, TRX=-8, RSD=70, RSS=60, REL=30, LSD=70, LSS=10, LEL=24)),
+    (0,  dict(TRY=20, PRY=8, TRX=-8, RSD=80, RSS=60, REL=30, LSD=70, LEL=24, RFR=-34)),
+    (4,  dict(TRY=42, PRY=24, PRZ=-4, TRX=-6, HRY=-10, RSD=92, RSS=84, REL=55, LSD=64, LSS=-10, LEL=34, RFR=-64)),
+    (9,  dict(TRY=-38, PRY=-28, PRZ=5, TRX=-14, HRY=12, RSD=82, RSS=86, REL=5, LSD=62, LSS=30, LEL=40, RFR=-78)),
+    (14, dict(TRY=-46, PRY=-30, PRZ=5, TRX=-12, HRY=14, RSD=72, RSS=70, REL=10, LSD=62, LSS=34, LEL=40, RFR=-60)),
+    (26, dict(TRY=-20, PRY=-8, TRX=-8, RSD=70, RSS=60, REL=30, LSD=70, LSS=10, LEL=24, RFR=-76)),
 ])
 atk3 = atk("atk3", [
-    (0,  dict(TRY=-20, PRY=-8, TRX=-8, RSD=70, RSS=60, REL=30, LSD=70, LEL=24)),
-    (5,  dict(TRY=-14, TRX=-12, PRX=-8, HRX=6, RSD=80, RSS=110, REL=50, LSD=60, LSS=30, LEL=50)),
-    (9,  dict(TRY=-10, TRX=12, PRX=6, HRX=10, RSD=90, RSS=175, REL=40, LSD=50, LSS=50, LEL=50)),
-    (12, dict(TRY=-8, TRX=14, PRX=5, HRX=12, RSD=90, RSS=185, REL=36, LSD=46, LSS=46, LEL=54)),
-    (15, dict(TRY=0, TRX=-30, PRX=-16, HRX=-20, RSD=90, RSS=55, REL=0, LSD=80, LSS=20, LEL=30)),
-    (24, dict(TRY=0, TRX=-28, PRX=-15, HRX=-18, RSD=90, RSS=50, REL=0, LSD=80, LSS=18, LEL=30)),
-    (40, dict(TRX=-6, HRX=-2)),
+    (0,  dict(TRY=-20, PRY=-8, TRX=-8, RSD=70, RSS=60, REL=30, LSD=70, LEL=24, RFR=-36)),
+    (5,  dict(TRY=-14, TRX=-12, PRX=-8, HRX=6, RSD=80, RSS=110, REL=50, LSD=60, LSS=30, LEL=50, RFR=-6)),
+    (9,  dict(TRY=-10, TRX=12, PRX=6, HRX=10, RSD=90, RSS=175, REL=40, LSD=50, LSS=50, LEL=50, RFR=10)),
+    (12, dict(TRY=-8, TRX=14, PRX=5, HRX=12, RSD=90, RSS=185, REL=36, LSD=46, LSS=46, LEL=54, RFR=0)),
+    (15, dict(TRY=0, TRX=-30, PRX=-16, HRX=-20, RSD=90, RSS=55, REL=0, LSD=80, LSS=20, LEL=30, RFR=0)),
+    (24, dict(TRY=0, TRX=-28, PRX=-15, HRX=-18, RSD=90, RSS=50, REL=0, LSD=80, LSS=18, LEL=30, RFR=56)),
+    (40, dict(TRX=-6, HRX=-2, RFR=0)),
 ])
 
 clips = [walk, run, idle, air, land, atk1, atk2, atk3]

diff --git a/game/fk.c b/game/fk.c
@@ -74,7 +74,12 @@ void fk_bones(const Model *m, const FKPose *p, MATRIX *pose, VECTOR *off)
     rot_yxz(&pose[DEMON_BONE_UPPER_ARM_L], 0, DEG(v[FK_LSS]), DEG(v[FK_LSD]));
     rot_yxz(&pose[DEMON_BONE_UPPER_ARM_R], 0, DEG(v[FK_RSS]), -DEG(v[FK_RSD]));
     mat_rot_y(&pose[DEMON_BONE_FOREARM_L], -DEG(v[FK_LEL]));
-    mat_rot_y(&pose[DEMON_BONE_FOREARM_R], DEG(v[FK_REL]));
+    {   /* right forearm: roll about its own length first, then the elbow bend */
+        MATRIX bend, roll;
+        mat_rot_y(&bend, DEG(v[FK_REL]));
+        mat_rot_x(&roll, DEG(v[FK_RFR]));
+        mat_mul(&bend, &roll, &pose[DEMON_BONE_FOREARM_R]);
+    }
 
     /* legs: hip pitch + abduction, knee bends the calf back, hoof stays level plus the ankle angle */
     rot_yxz(&pose[DEMON_BONE_THIGH_L], 0, DEG(v[FK_LHP]), -DEG(v[FK_LAB]));

diff --git a/platform/headless/gaittest.c b/platform/headless/gaittest.c
@@ -14,6 +14,7 @@
 #include "chainsaw_mesh.h"
 #include "chainsaw_tim.h"
 #include <string.h>
+#include <stdlib.h>
 
 #define COLS 8
 #define CW 150
@@ -130,7 +131,7 @@ int main(int argc, char **argv)
                 if (pl.atk == stage) t = pl.atk_t; else if (stage > 1 && pl.atk == stage - 1) { player_update(&pl, BTN_ATTACK, 0, 0); player_pose(&pl, &m); }
                 else t++;
             }
-            shot(&m, 3 + k / 8, k % 8, 0);
+            shot(&m, 3 + k / 8, k % 8, getenv("BEHIND") != 0);
         }
         printf("combo: stage %d t %d\n", pl.atk, pl.atk_t);
     }

diff --git a/game/fk.h b/game/fk.h
@@ -17,6 +17,7 @@ enum {
     FK_RSD, FK_RSS, FK_REL,        /* right arm */
     FK_LHP, FK_LKN, FK_LAN, FK_LAB, /* left leg: hip (+ = forward), knee bend, ankle (+ = toe down), abduct (+ = out) */
     FK_RHP, FK_RKN, FK_RAN, FK_RAB, /* right leg */
+    FK_RFR,                        /* right forearm roll about its own axis (turns the chainsaw blade) */
     FK_COUNT
 };
 
